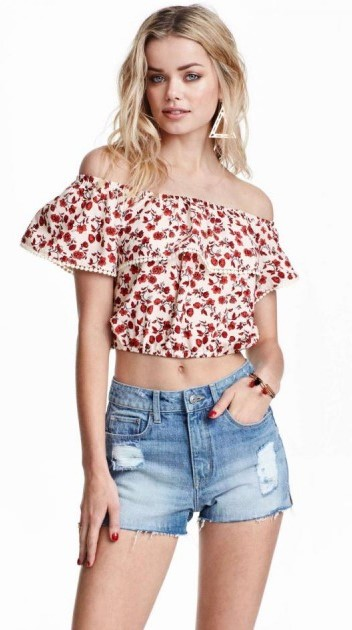
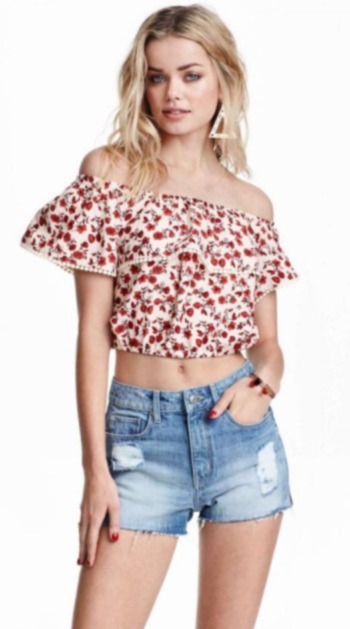
slidder
cambio de slidder y fotos tamaño

diff --git a/ejemplo.css b/ejemplo.css
@@ -152,7 +152,7 @@ h1{
 	animation-duration: 1s;
 }
 #button:active{
-	background-color: #f06;
+	background-color: #660029;
 }
 #button span {
   cursor: pointer;
@@ -243,56 +243,29 @@ h1{
 	margin-left: 5px;
 	margin-top: 5px;
 }
-.images{
-	width: 385px;
-	height: 430px;
-	background-color: white;
-	float: right;
-	margin-right: 5px;
-	margin-top: 5px;
-	padding-left: 0px;
-}
-.images li{
-	display: inline-block;
 
-}
-.img1{
-	width:280px;
-	height: 430px;
-	background-size: cover;
-	border-radius: 10px;
-	animation-name: slide;
-	animation-duration: 15s;
-	animation-iteration-count: infinite;
-}
-@keyframes slide{
-	0%{background-image: url("images/verano/verano1.jpg");}
-	25%{background-image: url("images/verano/verano2.jpg");}
-	50%{background-image: url("images/verano/verano3.jpg");}
-	75%{background-image: url("images/verano/verano5.jpg");}
-	100%{background-image: url("images/verano/verano1.jpg");}
+@keyframes slidy {
+0% { left: 0%; }
+20% { left: 0%; }
+25% { left: -100%; }
+45% { left: -100%; }
+50% { left: -200%; }
+70% { left: -200%; }
+75% { left: -300%; }
+95% { left: -300%; }
+100% { left: -400%; }
 }
 
-/*
-.img2{
-	width:280px;
-	height: 430px;
-	background-image: url("images/verano/verano2.jpg");
-	background-size: cover;
-	position: absolute;
+body { margin: 0; } 
+div#slider { overflow: hidden; }
+div#slider figure img { width: 20%; float: left; }
+div#slider figure { 
+  position: relative;
+  width: 500%;
+  margin: 0;
+  left: 0;
+  text-align: left;
+  font-size: 0;
+  animation: 30s slidy infinite; 
 }
-.img3{
-	width:280px;
-	height: 430px;
-	background-image: url("images/verano/verano3.jpg");
-	background-size: cover;
-	position: absolute;
-}
-.img4{
-	width:280px;
-	height: 430px;
-	background-image: url("images/verano/verano5.jpg");
-	background-size: cover;
-	position: absolute;
-}
-*/
+s

diff --git a/ejemplo.js b/ejemplo.js
@@ -11,12 +11,6 @@ $(document).ready(function(){
 });
 
 $(document).ready(function(){
-	$(".clothes").click(function(){
-        $(this).css("background-color","#ff0066");
-    });
-});
-
-$(document).ready(function(){
 	$(".cl_toggle").mouseleave(function(){
         $(".clothes").css("background-color","#660029");
     });
@@ -28,11 +22,7 @@ $(document).ready(function(){
         $(".ac_toggle").slideToggle("slow");
     });
 });
-$(document).ready(function(){
-	$(".acce").click(function(){
-        $(this).css("background-color","#ff0066");
-    });
-});
+
 $(document).ready(function(){
 	$(".ac_toggle").mouseleave(function(){
         $(".acce").css("background-color","#660029");
@@ -50,11 +40,7 @@ $(document).ready(function(){
         $(".sh_toggle").slideToggle("slow");
     });
 });
-$(document).ready(function(){
-	$(".sho").click(function(){
-        $(this).css("background-color","#ff0066");
-    });
-});
+
 $(document).ready(function(){
 	$(".sh_toggle").mouseleave(function(){
         $(".sho").css("background-color","#660029");

diff --git a/index.html b/index.html
@@ -6,6 +6,7 @@
 	<link rel="stylesheet" type="text/css" href="ejemplo.css">
 	<script src="https://ajax.googleapis.com/ajax/libs/jquery/3.1.1/jquery.min.js"></script>
 	<script type="text/javascript" src="ejemplo.js"></script>
+
 </head>
 <body>
 <div class="bg">
@@ -47,14 +48,15 @@
 			<div class="text">
 				
 			</div>
-			
-			<ul class="images">
-			<div class="gradient"></div>
-				<li class="img1"></li>
-				<li class="img2"></li>
-				<li class="img3"></li>
-				<li class="img4"></li>
-			</ul>
+			<div id="slider">
+				<figure>
+				<img src="images/verano/verano1.jpg" alt>
+				<img src="images/verano/verano2.jpg" alt>
+				<img src="images/verano/verano3.jpg" alt>
+				<img src="images/verano/verano5.jpg" alt>
+				</figure>
+			</div>
+
 		</div>
 	</div>
 </div>
